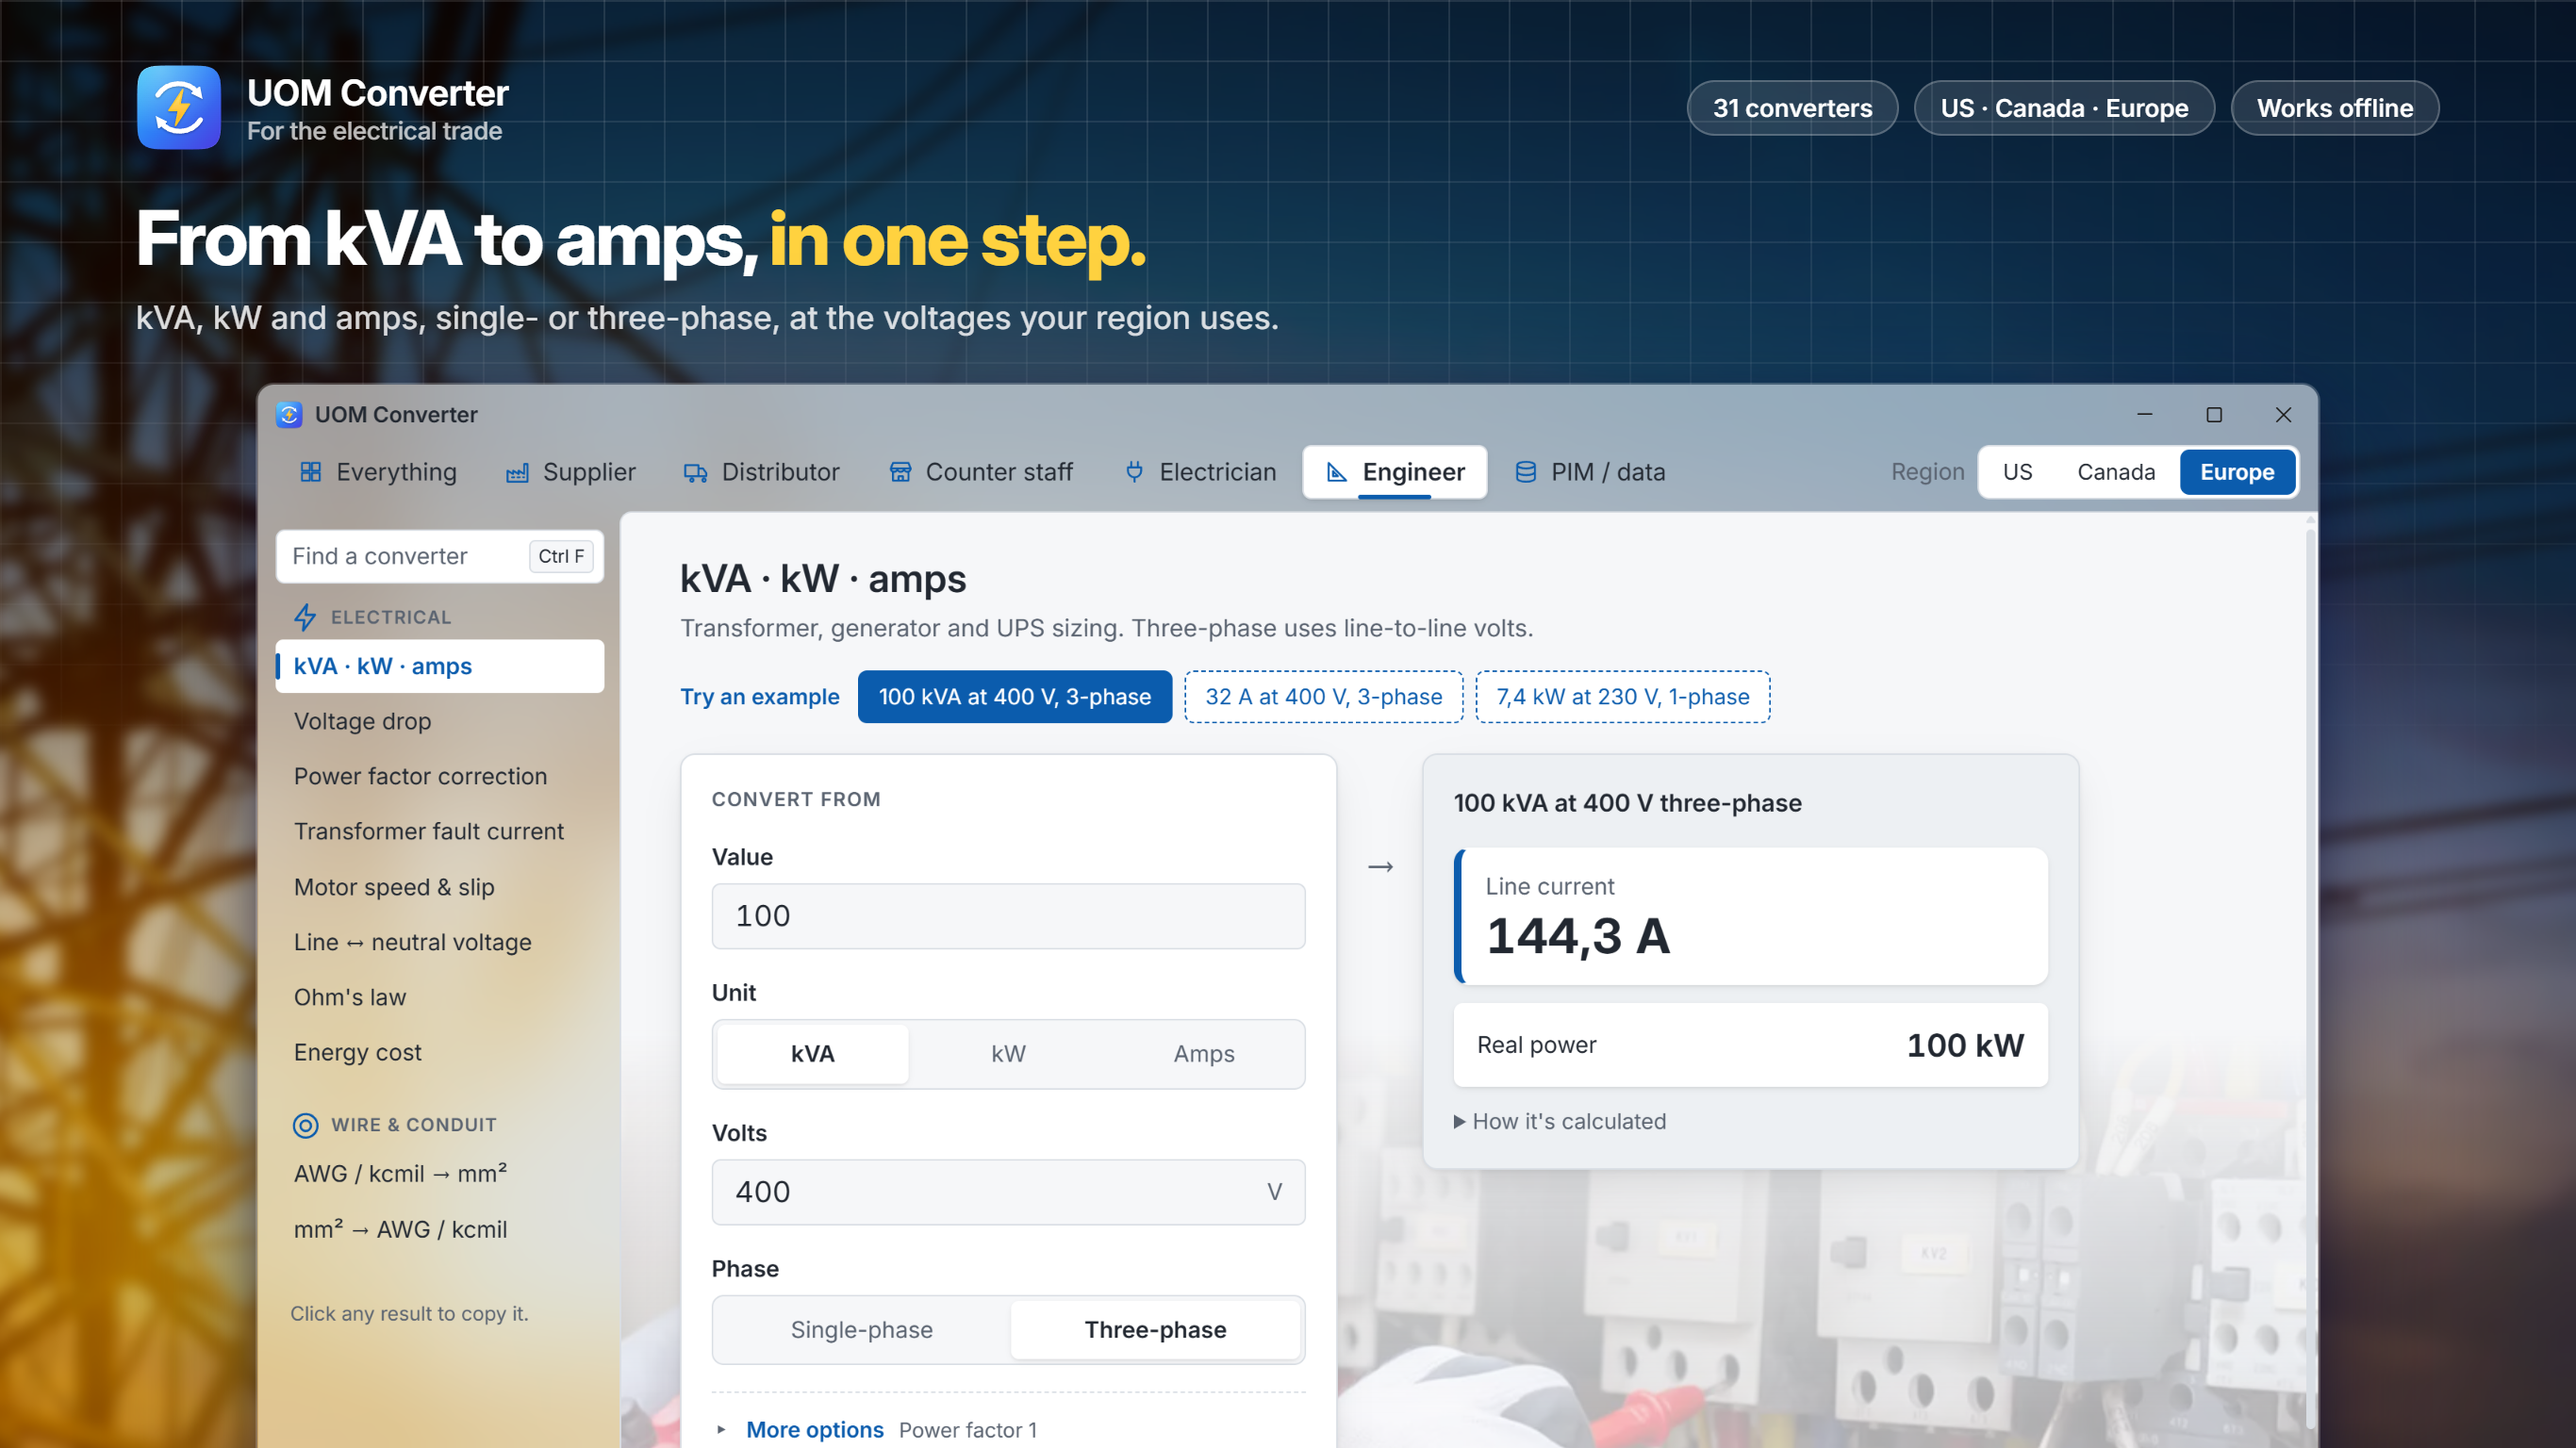
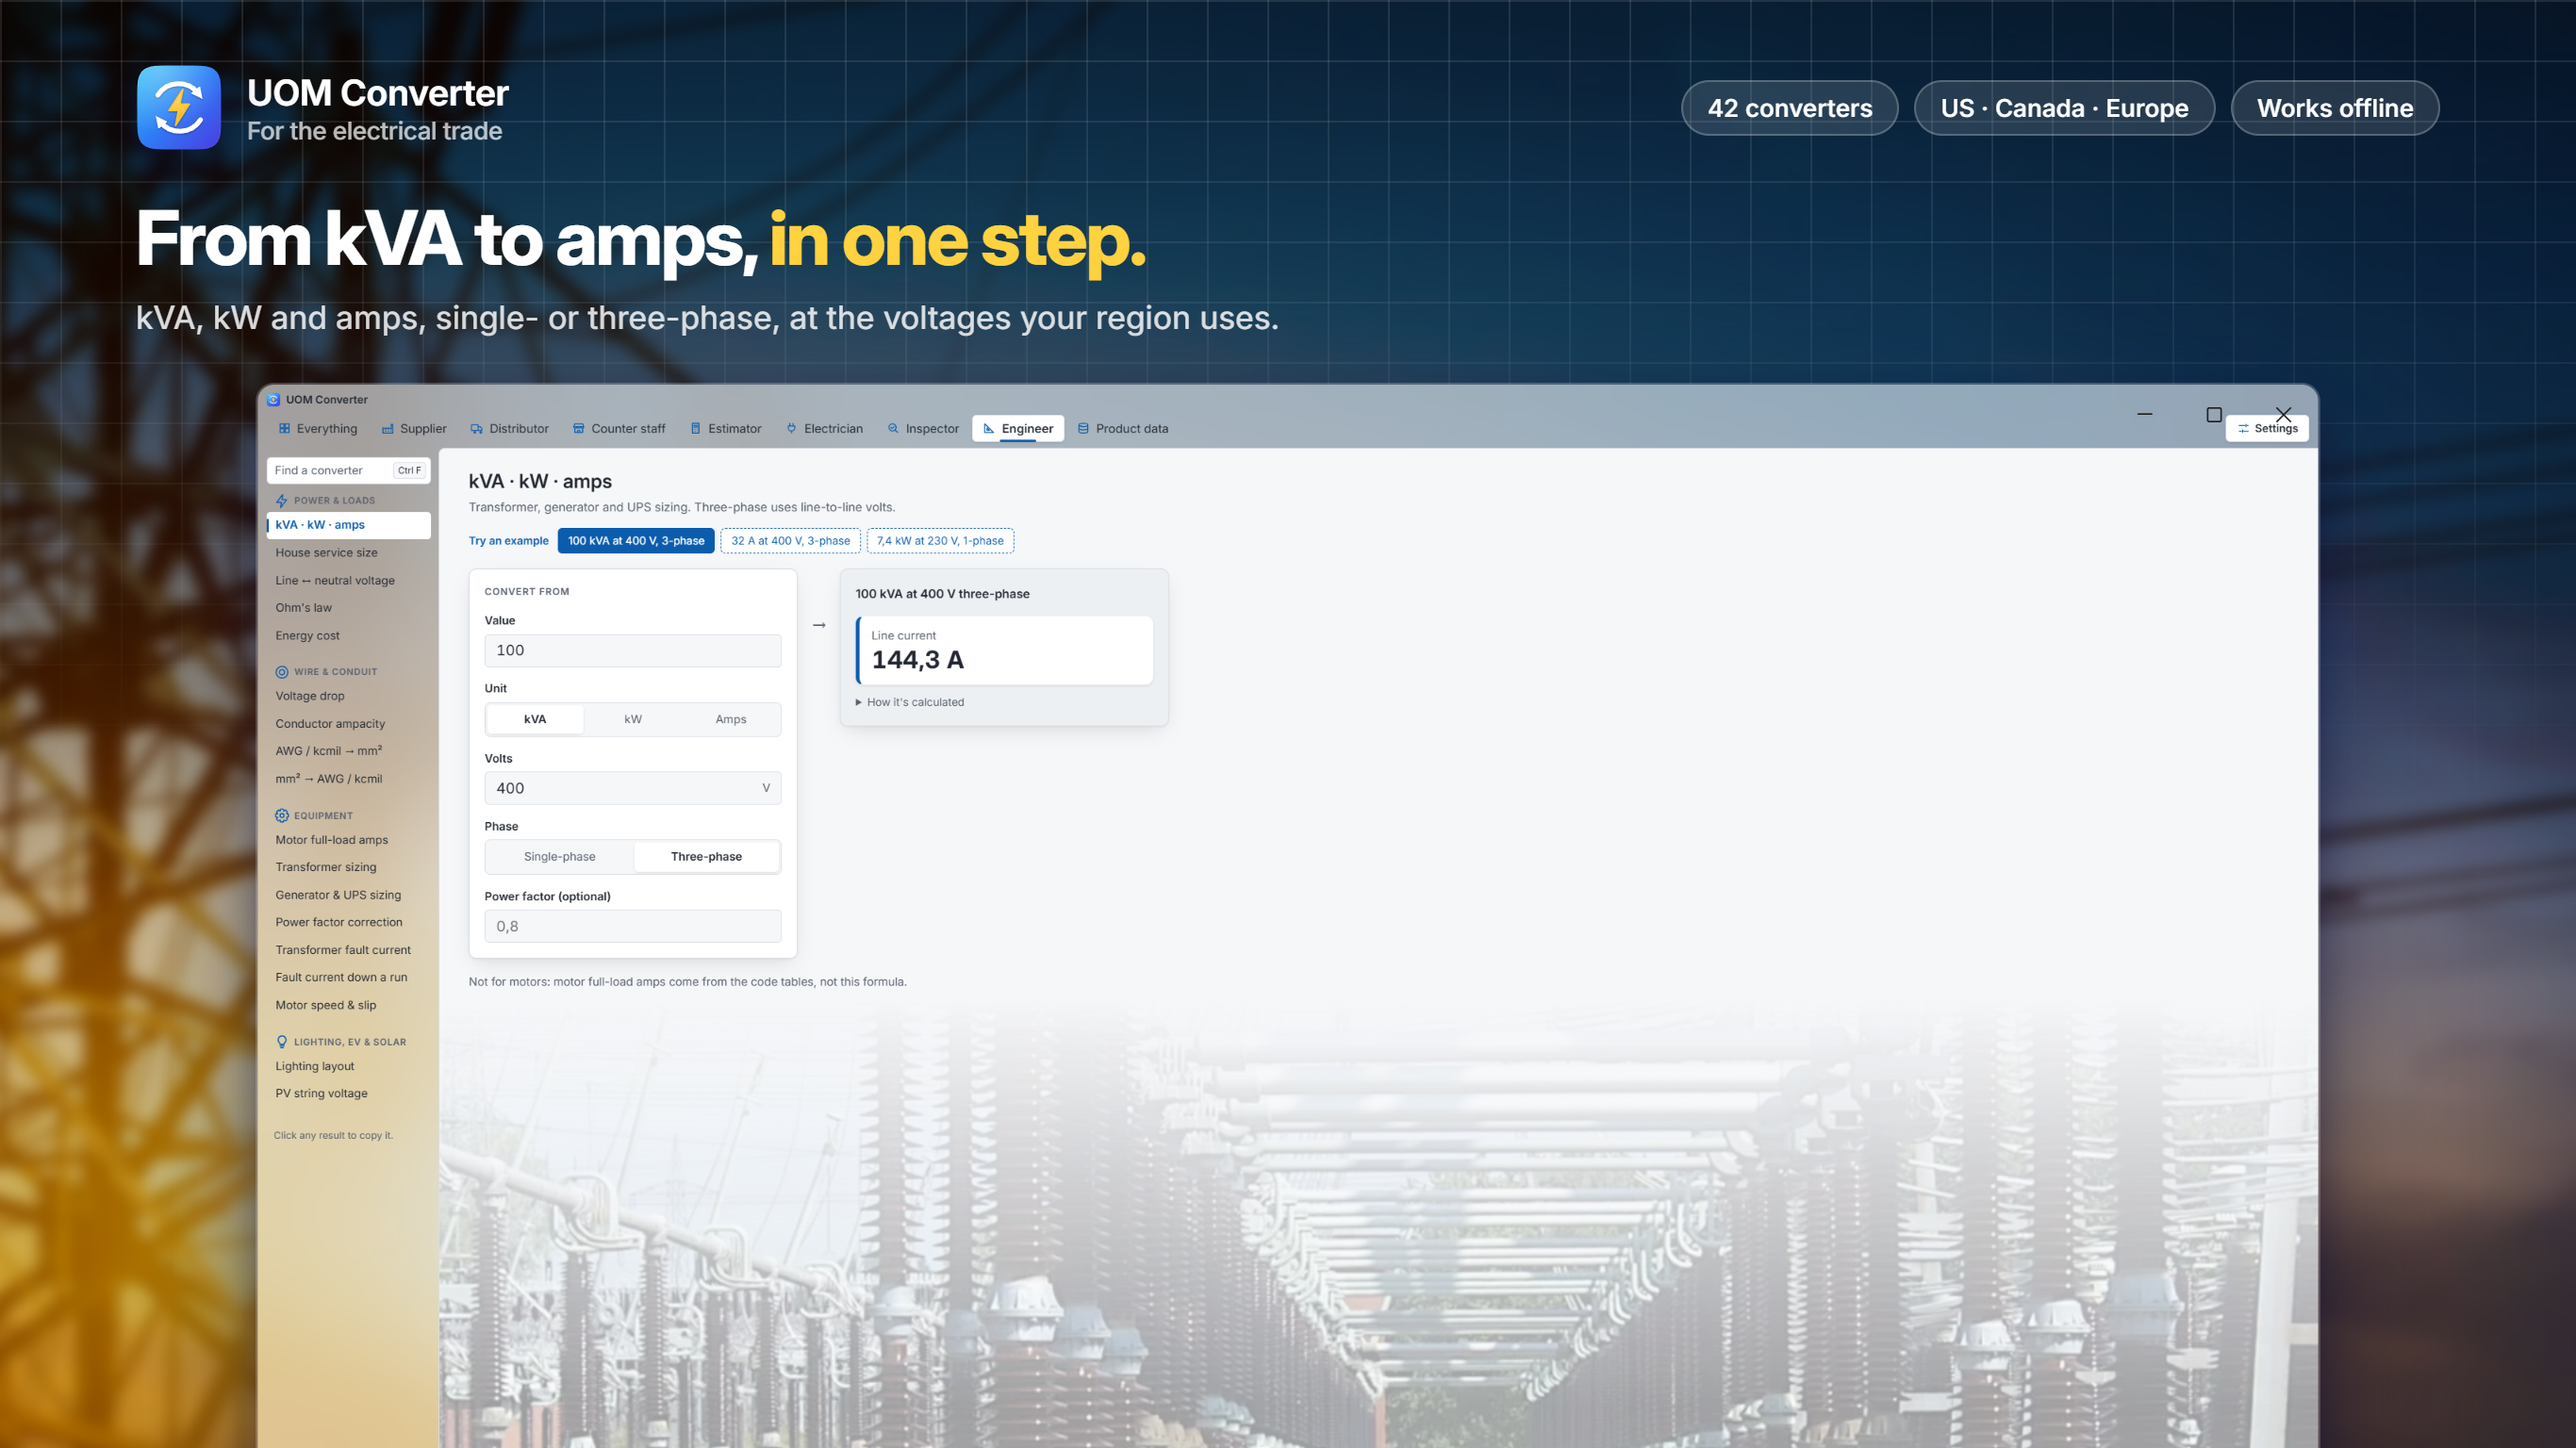
Release 1.3.0

diff --git a/docs/CHANGELOG.md b/docs/CHANGELOG.md
@@ -7,8 +7,18 @@ match the release tags (`v<version>`).
 
 ## [Unreleased]
 
+## [1.3.0] - 2026-10-31
+
 ### Added
 
+- conductor ampacity: the NEC and CEC tables, derated for heat and bundling, and held to the terminals
+- motor full-load amps: horsepower to table current, with the wire, breaker, fuses and overload setting
+- conduit fill: the smallest EMT for a mix of wires, or how full a size would be
+- box fill: the box volume conductors and devices need, by the NEC or the CEC. It replaces the
+  box fill volume converter
+- metal surcharge: what a copper or aluminum move adds to wire
+- fault current down a run, by the point-to-point method, against the equipment's rating
+- transformer sizing, generator and UPS sizing, house service size, lighting layout, EV charger circuit and PV string voltage
 - the Windows and Android apps have a theme setting: system, light or dark
 - gentle motion: a converter eases in as it opens, a picked example's answer lands piece by piece,
   and buttons respond to a press. Nothing moves while you type, and it all follows the system's
@@ -20,20 +30,12 @@ match the release tags (`v<version>`).
 - UOM codes has VA, kA, mV, MW, MWh, kelvin and candela
 - wire sizes from 1250 to 2000 kcmil, and 700, 800 and 900 kcmil
 - in Europe, the conduit converter gives the typical clearance hole for M16 to M63
-- box fill: the box volume conductors and devices need, by the NEC or the CEC. It replaces the
-  box fill volume converter and keeps its address
 - line and neutral voltage checks a meter reading against the limits for its nominal voltage, and
   gives the legs of a centre-tapped delta, including the high leg
 - Ohm's law gives what a resistive load does on another voltage
 - the power converter has metric horsepower and tons of cooling
 - the length converter takes feet and inches as plans write them, such as 12'-6", and shows them
 - estimator and inspector roles, each with the converters that role uses first
-- conductor ampacity: the NEC and CEC tables, derated for heat and bundling, and held to the terminals
-- motor full-load amps: horsepower to table current, with the wire, breaker, fuses and overload setting
-- conduit fill: the smallest EMT for a mix of wires, or how full a size would be
-- metal surcharge: what a copper or aluminum move adds to wire
-- fault current down a run, by the point-to-point method, against the equipment's rating
-- transformer sizing, generator and UPS sizing, house service size, lighting layout, EV charger circuit and PV string voltage
 - power factor correction gives the capacitor to buy for one rated at another voltage
 
 ### Changed
@@ -45,6 +47,7 @@ match the release tags (`v<version>`).
   price to Pricing & ordering. The website's electrical page moves to power-and-loads, and its old
   address redirects there
 - the Windows app opens at 1400 × 860, which is also its smallest size, or the size of the screen if that's smaller
+- the photo behind a converter in the Windows app is a little stronger
 - voltage drop uses AC resistance and reactance, not DC resistance alone: a 500 kcmil feeder
   reads about twice what it did, and a bigger wire no longer appears to cure a drop that
   reactance sets. North American sizes use stranded values

diff --git a/apps/android/store-listing/LISTING.md b/apps/android/store-listing/LISTING.md
@@ -8,12 +8,12 @@ package is `com.chengmarc.uomconverter`; the bundle is built and signed as
 
 ## Release
 
-- **Release name:** `<version> (<versionCode>)`, e.g. `1.2.0 (10200)`. Not shown to users.
-- **Release notes** (500 characters or fewer per language). For 1.2.0:
+- **Release name:** `<version> (<versionCode>)`, e.g. `1.3.0 (10300)`. Not shown to users.
+- **Release notes** (500 characters or fewer per language). For 1.3.0:
 
   ```
   <en-US>
-  Now in Spanish, German and French: the app opens in your phone's language, and Settings changes it. The language is separate from the region, which still sets units, number formats and voltages. In the US and Canada, a number with a comma that doesn't separate thousands, such as "7,4", is now an error instead of being read as 74.
+  New: conductor ampacity, motor full-load amps, conduit fill, box fill, house service size, transformer and generator sizing, EV charger and PV string tools, and more. Voltage drop now counts reactance and checks the wire can carry the load. Choose light or dark in Settings. Topics are clearer, with new estimator and inspector roles, and small animations. Plus many fixes.
   </en-US>
   ```
 
